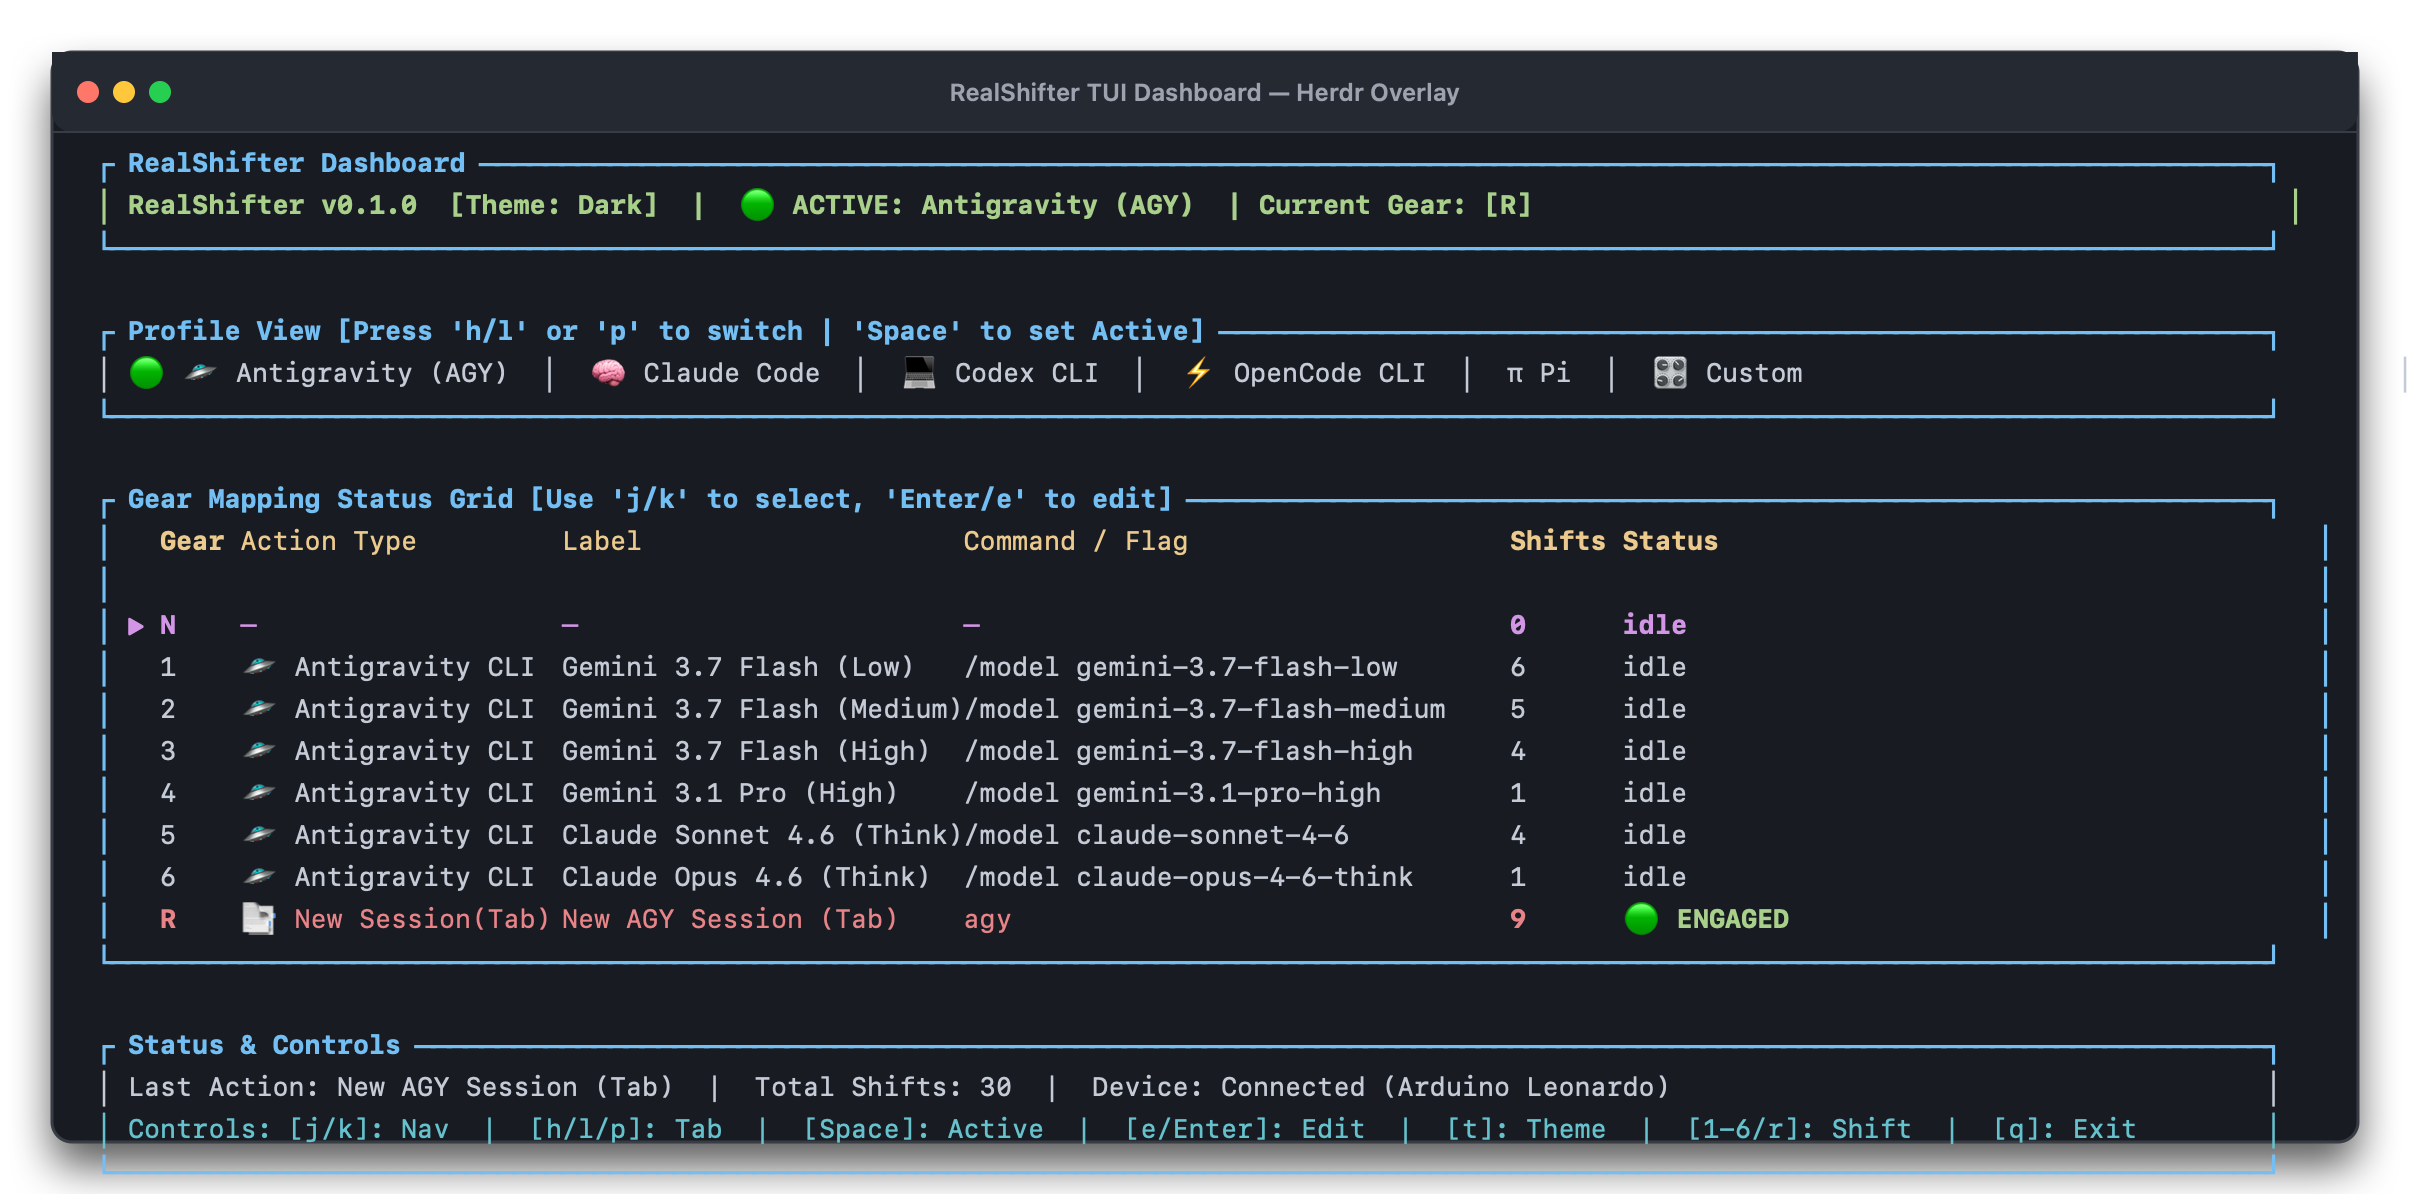
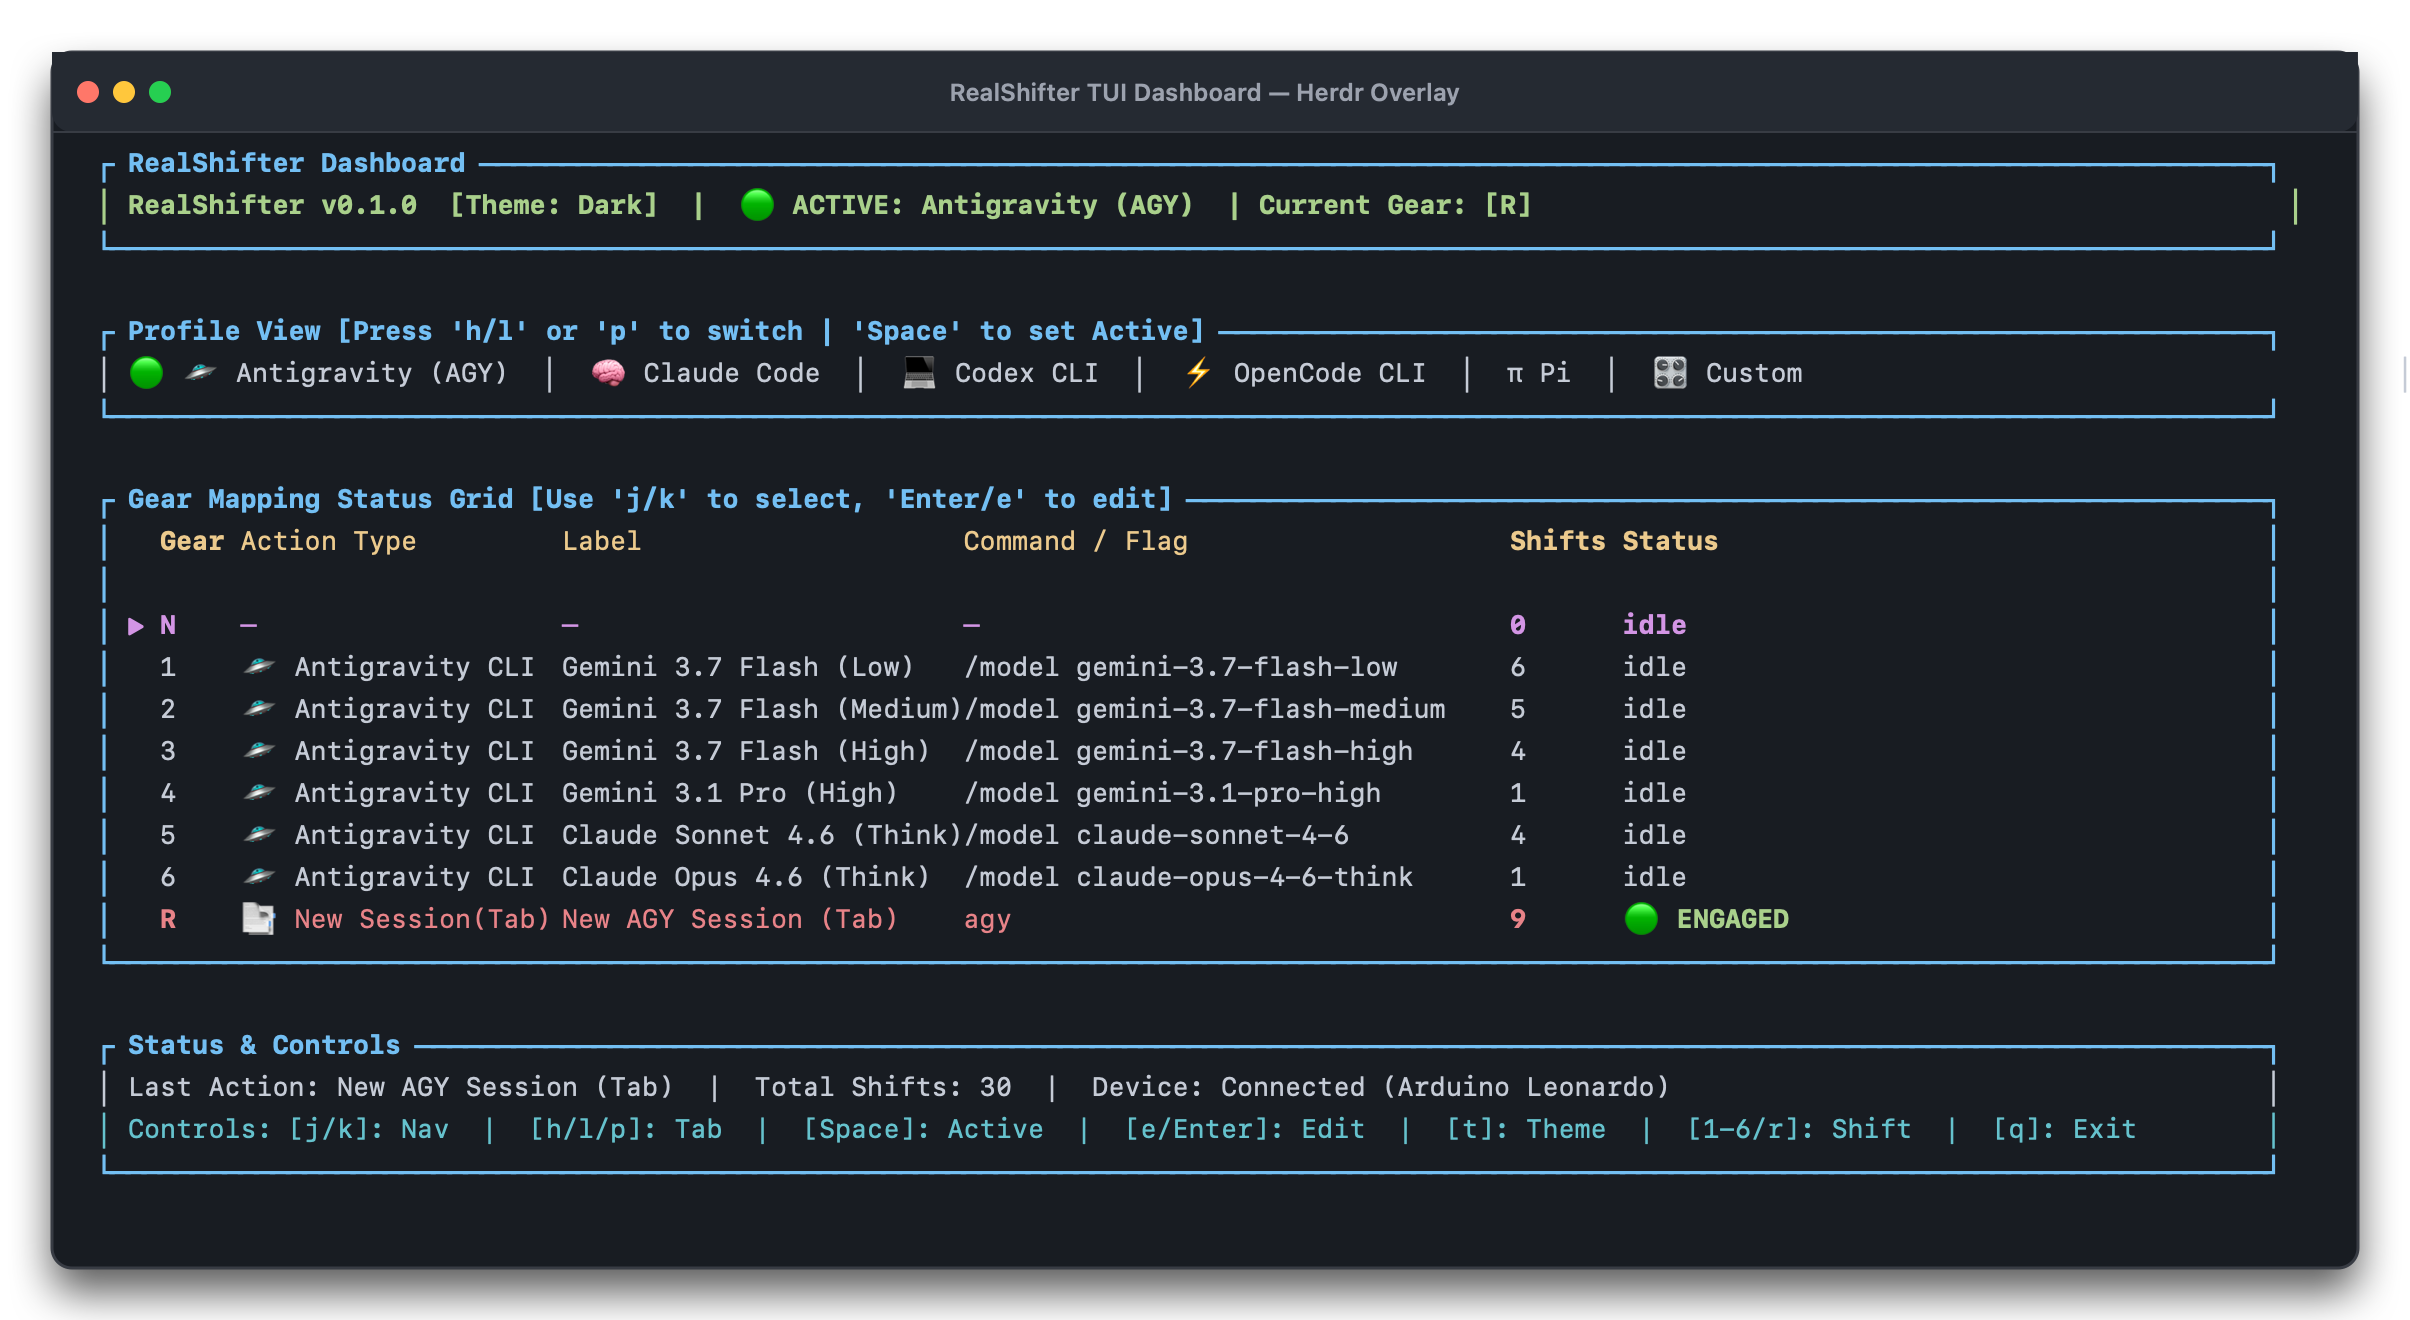
docs: fix right border alignment and vertical clipping in dashboard screenshot

diff --git a/scripts/render_tui_png.swift b/scripts/render_tui_png.swift
@@ -42,10 +42,11 @@ let PAD_BOT: CGFloat = 22
 let contentW = CGFloat(COLS) * charW + PAD_X * 2
 let W = contentW + SHADOW * 2
 
-// Count content rows
-let CONTENT_ROWS = 23  // header(3) + gap(1) + tabs(3) + gap(1) + grid-header(1) + grid-sep(1) + N rows(8) + bot(1) + gap(1) + status(4)
+// Count content rows — generous so bottom border never clips outside window
+let CONTENT_ROWS = 26  // header(3)+gap(1)+tabs(3)+gap(1)+grid(12)+gap(1)+status(4)+bottom-pad(1)
 let contentH = TITLE_H + CGFloat(CONTENT_ROWS) * LH + PAD_BOT
 let H = contentH + SHADOW * 2
+
 
 
 let size = NSSize(width: W, height: H)
@@ -176,7 +177,8 @@ func drawRowAt(idx: Int, gear: String, atype: String, label: String,
     let sc = statColor ?? color
     let yi = Y(idx)
     let lx = SHADOW + PAD_X
-    a("│", BLUE, bold: true).draw(at: CGPoint(x: lx + cBar, y: yi))
+    // Left border: aligns with the '│' at char position 0 of boxRow strings
+    a("│", BLUE, bold: true).draw(at: CGPoint(x: lx, y: yi))
     let gStr = (cursor ? "▶ " : "  ") + gear
     a(gStr, color, bold: bold).draw(at: CGPoint(x: lx + cGear, y: yi))
     if !atype.isEmpty  { a(atype,  color, bold: false).draw(at: CGPoint(x: lx + cType, y: yi)) }
@@ -184,10 +186,12 @@ func drawRowAt(idx: Int, gear: String, atype: String, label: String,
     if !cmd.isEmpty    { a(cmd,    color, bold: false).draw(at: CGPoint(x: lx + cCmd,  y: yi)) }
     a(shifts, color, bold: bold).draw(at: CGPoint(x: lx + cShi, y: yi))
     a(status, sc,    bold: bold).draw(at: CGPoint(x: lx + cStat, y: yi))
-    // right bar — approximate right edge
-    let rx = SHADOW + contentW - PAD_X + 2
+    // Right border: placed at same X as the '┐' in boxTop — (INNER+2) chars from lx,
+    // minus 1 char width because '┐' itself is 1 char wide and we want to overlap it exactly.
+    let rx = lx + CGFloat(INNER + 1) * charW
     a("│", BLUE, bold: true).draw(at: CGPoint(x: rx, y: yi))
 }
+
 
 // Grid header
 drawRowAt(idx: lineIdx, gear: "Gear", atype: "Action Type", label: "Label",
@@ -196,9 +200,11 @@ drawRowAt(idx: lineIdx, gear: "Gear", atype: "Action Type", label: "Label",
 lineIdx += 1
 
 // Separator row
-a("│", BLUE, bold: true).draw(at: CGPoint(x: SHADOW + PAD_X, y: Y(lineIdx)))
-a("│", BLUE, bold: true).draw(at: CGPoint(x: SHADOW + contentW - PAD_X + 2, y: Y(lineIdx)))
+let sepLx = SHADOW + PAD_X
+a("│", BLUE, bold: true).draw(at: CGPoint(x: sepLx, y: Y(lineIdx)))
+a("│", BLUE, bold: true).draw(at: CGPoint(x: sepLx + CGFloat(INNER + 1) * charW, y: Y(lineIdx)))
 lineIdx += 1
+
 
 struct GRow { let gear, atype, label, cmd, shifts, status, style: String }
 
